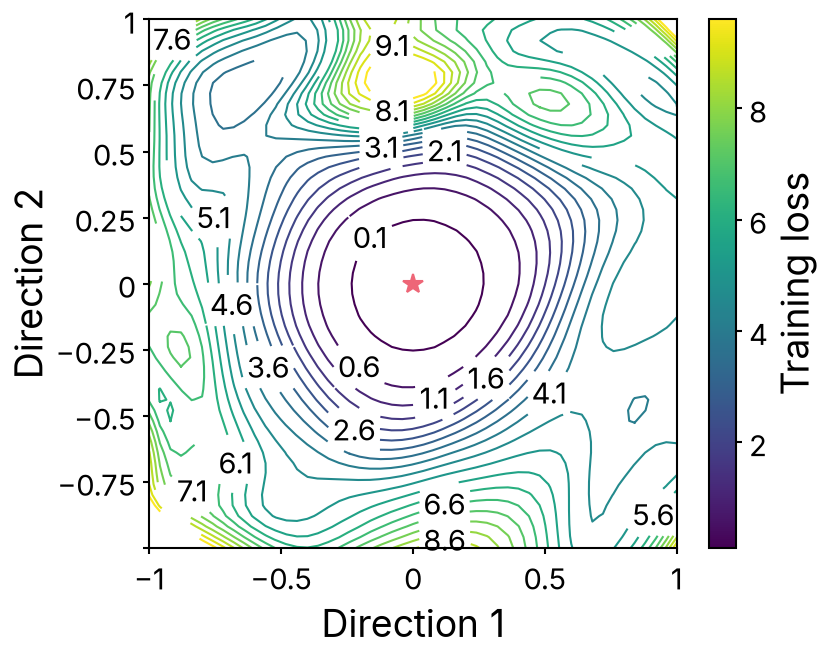
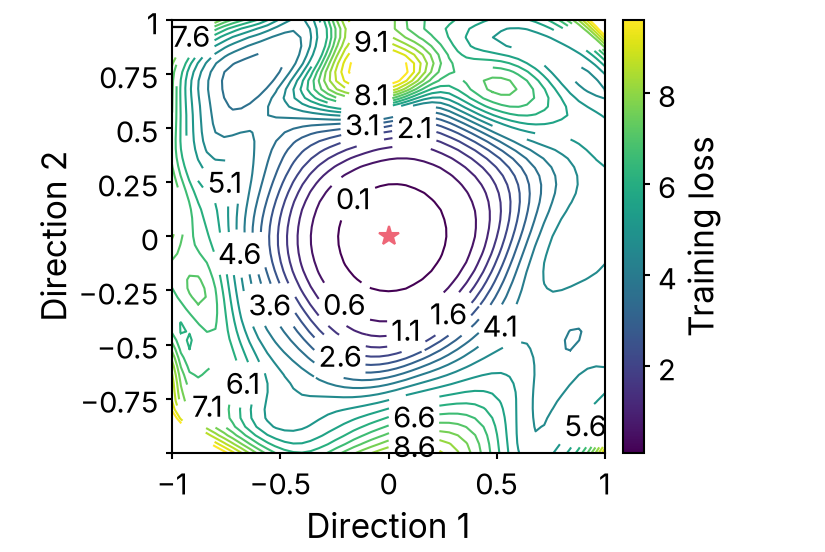
Standard box with a colorbar; colorbar tokens; small-multiples example
- fit_height keeps one colorbar beside (or under) the panels at the colorbar
  width and gap tokens, its labels in a standard margin, so heatmaps and
  contour plots of one width share one box size
- Standard tick sample allows a sign (−0.75, 1000, 100%); label line allows (, β
- New example: small-multiples, three panels across both columns of an ICML paper

Claude-Session: https://claude.ai/code/session_01Vy1dAkyLNTuzaw6HFfW3zb

Changed region(s): [[0.0, 0.0, 1.0, 0.9855], [0.8182, 0.8623, 0.8485, 0.8931]]

diff --git a/skills/academic-figure/assets/paper.py b/skills/academic-figure/assets/paper.py
@@ -30,6 +30,7 @@ dashed_width = 0.75  # the dashed-line token, set by use_design(); pass it to da
 highlight_size = 5  # the marker highlight-size token, set by use_design(); for a point of interest
 filled_edge_width = 0.25  # the marker filled-edge-width token, set by use_design(); for filled markers
 canvas_pad_x = 0.1  # the canvas-pad-x token, in inches, set by use_design(): free space at the left and right edges
+colorbar_width, colorbar_gap = 0.1, 0.06  # the colorbar tokens, in inches, set by use_design()
 
 
 def _resolve(value, tokens):
@@ -52,7 +53,7 @@ def _number(value):
 def use_design(path="DESIGN.md"):
     """Set matplotlib's style from paper.mplstyle and the tokens in the front matter of `path`, a DESIGN.md.
     Returns the colors by name, e.g. colors["series-1"], colors["ours"]."""
-    global dashed_width, highlight_size, filled_edge_width, canvas_pad_x, _greys
+    global dashed_width, highlight_size, filled_edge_width, canvas_pad_x, colorbar_width, colorbar_gap, _greys
     tokens = yaml.safe_load(Path(path).read_text().split("---")[1])
     tokens = _resolve(tokens, tokens)
     c, t, s, k = tokens["colors"], tokens["typography"], tokens["spacing"], tokens["components"]
@@ -93,6 +94,7 @@ def use_design(path="DESIGN.md"):
     dashed_width = _number(k["dashed-line"]["width"])
     highlight_size = _number(k["marker"]["highlight-size"])
     canvas_pad_x = _number(s["canvas-pad-x"])
+    colorbar_width, colorbar_gap = _number(k["colorbar"]["width"]), _number(k["colorbar"]["gap"])
     filled_edge_width = _number(k["marker"]["filled-edge-width"])
     return c
 
@@ -330,12 +332,12 @@ def _warn_layout_problems(fig, panels, min_width):
 
 def _standard_margins(fig):
     """The left and right margins, in inches, of a standard panel: on the left a y-axis label and
-    four-character tick labels, on the right half of a four-character tick label at the x axis' end."""
+    four-character tick labels with a sign, on the right half of one at the x axis' end."""
     renderer = fig.canvas.get_renderer()
-    sample = fig.text(0, 0, "0000", fontsize=rcParams["ytick.labelsize"])
+    sample = fig.text(0, 0, "\u22120.00", fontsize=rcParams["ytick.labelsize"])  # four characters and a sign: −0.75, 1000, 100%
     ticks = sample.get_window_extent(renderer).width / fig.dpi
     sample.remove()
-    label = rcParams["axes.labelsize"] * 1.2 / 72  # one line of the axis label, rotated
+    label = rcParams["axes.labelsize"] * 1.35 / 72  # one line of the axis label, rotated, with room for (, β, _
     pads = (rcParams["axes.labelpad"] + rcParams["ytick.major.pad"] + rcParams["ytick.major.size"]) / 72
     return canvas_pad_x + label + pads + ticks, canvas_pad_x + ticks / 2
 
@@ -344,9 +346,11 @@ def _standard_box(fig, panels, aspect):
     """Panels whose outer decorations fit the standard margins start and end exactly there, so the
     boxes of all figures at one width (and one number of columns) line up and match in size. The
     gaps between columns and rows stay as the layout found them; the columns share what is left.
-    Returns whether the panels moved."""
-    if (fig.subfigs or any(getattr(a, "_colorbar", None) is not None for a in fig.axes)
-            or len(fig.axes) != len(panels) or _is_round(panels[0])):
+    One colorbar is kept beside the panels (right) or under them (bottom), at the size and gap the
+    layout gave it, its labels inside a standard margin of their own. Returns whether they moved."""
+    cbars = [a for a in fig.axes if getattr(a, "_colorbar", None) is not None]
+    if (fig.subfigs or len(cbars) > 1 or len(fig.axes) != len(panels) + len(cbars)
+            or _is_round(panels[0])):
         return False
     fig.canvas.draw()
     renderer = fig.canvas.get_renderer()
@@ -361,18 +365,32 @@ def _standard_box(fig, panels, aspect):
                for a in first_column):
         return False  # no y labels to align (an embedding): the layout centres the panel
     left, right = _standard_margins(fig)
+    side = left - canvas_pad_x  # an axis label and four-character tick labels
     pad = canvas_pad_x
+    panels_x1 = max(b.x1 for b in boxes.values()) * w
+    cbar = cbars[0] if cbars else None
+    vertical = cbar is not None and cbar._colorbar.orientation == "vertical"
+    if vertical:
+        cb = cbar.get_position()
+        cb_gap, cb_w = colorbar_gap, colorbar_width
+        if cbar.get_tightbbox(renderer).x1 / fig.dpi - cb.x1 * w > side + 1e-3:
+            return False
+        right = pad + side + cb_w + cb_gap
     for a, b in boxes.items():
         tight = a.get_tightbbox(renderer)
         if col_of[a] == 0 and b.x0 * w - tight.x0 / fig.dpi + pad > left + 1e-3:
             return False
-        if col_of[a] == len(columns) - 1 and tight.x1 / fig.dpi - b.x1 * w + pad > right + 1e-3:
+        if not vertical and col_of[a] == len(columns) - 1 and tight.x1 / fig.dpi - b.x1 * w + pad > right + 1e-3:
             return False
     first = {c: next(b for a, b in boxes.items() if col_of[a] == c) for c in range(len(columns))}
     col_gaps = [first[c + 1].x0 * w - first[c].x1 * w for c in range(len(columns) - 1)]
     top_row = {r: next(b for a, b in boxes.items() if row_of[a] == r) for r in range(len(rows))}
     row_gaps = [top_row[r].y0 * h - top_row[r + 1].y1 * h for r in range(len(rows) - 1)]
     bottom, top = top_row[len(rows) - 1].y0 * h, h - top_row[0].y1 * h
+    if cbar is not None and not vertical:
+        cb = cbar.get_position()
+        cb_below = bottom - cb.y1 * h  # the gap between the panels and the colorbar under them
+        cb_h, cb_bottom = cb.height * h, cb.y0 * h
     panel_w = (w - left - right - sum(col_gaps)) / len(columns)
     panel_h = aspect * panel_w
     new_h = bottom + top + len(rows) * panel_h + sum(row_gaps)
@@ -383,6 +401,12 @@ def _standard_box(fig, panels, aspect):
         x0 = left + c * panel_w + sum(col_gaps[:c])
         y0 = bottom + (len(rows) - 1 - r) * panel_h + sum(row_gaps[r:])
         a.set_position([x0 / w, y0 / new_h, panel_w / w, panel_h / new_h])
+    span_w = len(columns) * panel_w + sum(col_gaps)
+    span_h = len(rows) * panel_h + sum(row_gaps)
+    if vertical:
+        cbar.set_position([(left + span_w + cb_gap) / w, bottom / new_h, cb_w / w, span_h / new_h])
+    elif cbar is not None:
+        cbar.set_position([left / w, cb_bottom / new_h, span_w / w, cb_h / new_h])
     return True
 
 

diff --git a/skills/academic-figure/assets/DESIGN.md b/skills/academic-figure/assets/DESIGN.md
@@ -68,6 +68,9 @@ components:
     width: 0.5pt
   heatmap:
     colormap: viridis
+  colorbar:
+    width: 0.1in
+    gap: 0.06in
 ---
 
 # Academic Figure
@@ -257,6 +260,7 @@ The marks every chart type is built from, sized by the `components` tokens. Matp
 | Seams between fills (stacked segments, wedges, area bands) | `grid` | white, 0.5 pt | `edgecolor="white", linewidth=rcParams["grid.linewidth"]` |
 | Box plot median | `median` | 1 pt, black | set by the style |
 | Contour lines | `contour` | 0.5 pt | `rcParams["contour.linewidth"]` |
+| Colorbar | `colorbar` | a bar 0.1 in wide, 0.06 in from the panels, its labels in a standard margin beside it | placed by `fit_height` |
 
 - **Opacity**: fills take the series color at full opacity, except bands (`alpha=0.2`), scatter clouds (`alpha=0.5`), light polygon fills (radar, `alpha=0.1`), and box plots and violins, which take `lighten(color)` so the black median and the points on them stay readable (grey series too: `lighten(greys(n)[i])`, so the median stays readable on every fill).
 - **Reference lines** (a baseline's score, a threshold, a diagonal) are context, so they look like no data series: thin and solid in `neutral`, at the grid's width, `ax.axhline(..., color=colors["neutral"], linewidth=rcParams["grid.linewidth"], zorder=1)`, thinner than every data line and never dashed, the dash patterns being taken by grey series. Across a filled plot (stacked area, heatmap, contour gradient), where grey sinks into the fills, they are white and dashed. Several reference lines in one panel: the second and later ones dotted, `linestyle=":"`. A line with a value of its own (a baseline's score, a threshold) gets a legend entry; a line whose meaning the axes give (y = x, chance, zero) gets none, and the caption's reading guide names it.

diff --git a/examples/chart-types/tasks/small-multiples.md b/examples/chart-types/tasks/small-multiples.md
@@ -1,0 +1,7 @@
+# Task: small-multiples
+
+Draw line charts, one panel per dataset, side by side, from `small-multiples.json`, for an ICML paper, as a figure spanning both columns (`figure*`).
+
+Data: `epochs`, and `accuracy[dataset][method]` for three datasets (CIFAR-10, CIFAR-100, Tiny-ImageNet) and three methods (Ours, Mixup, Baseline): 3 runs (seeds) each, one validation accuracy (0–1) per epoch.
+
+Deliverable: the figure in the figures folder with its caption, as `small-multiples.png` and `small-multiples.pdf`.
